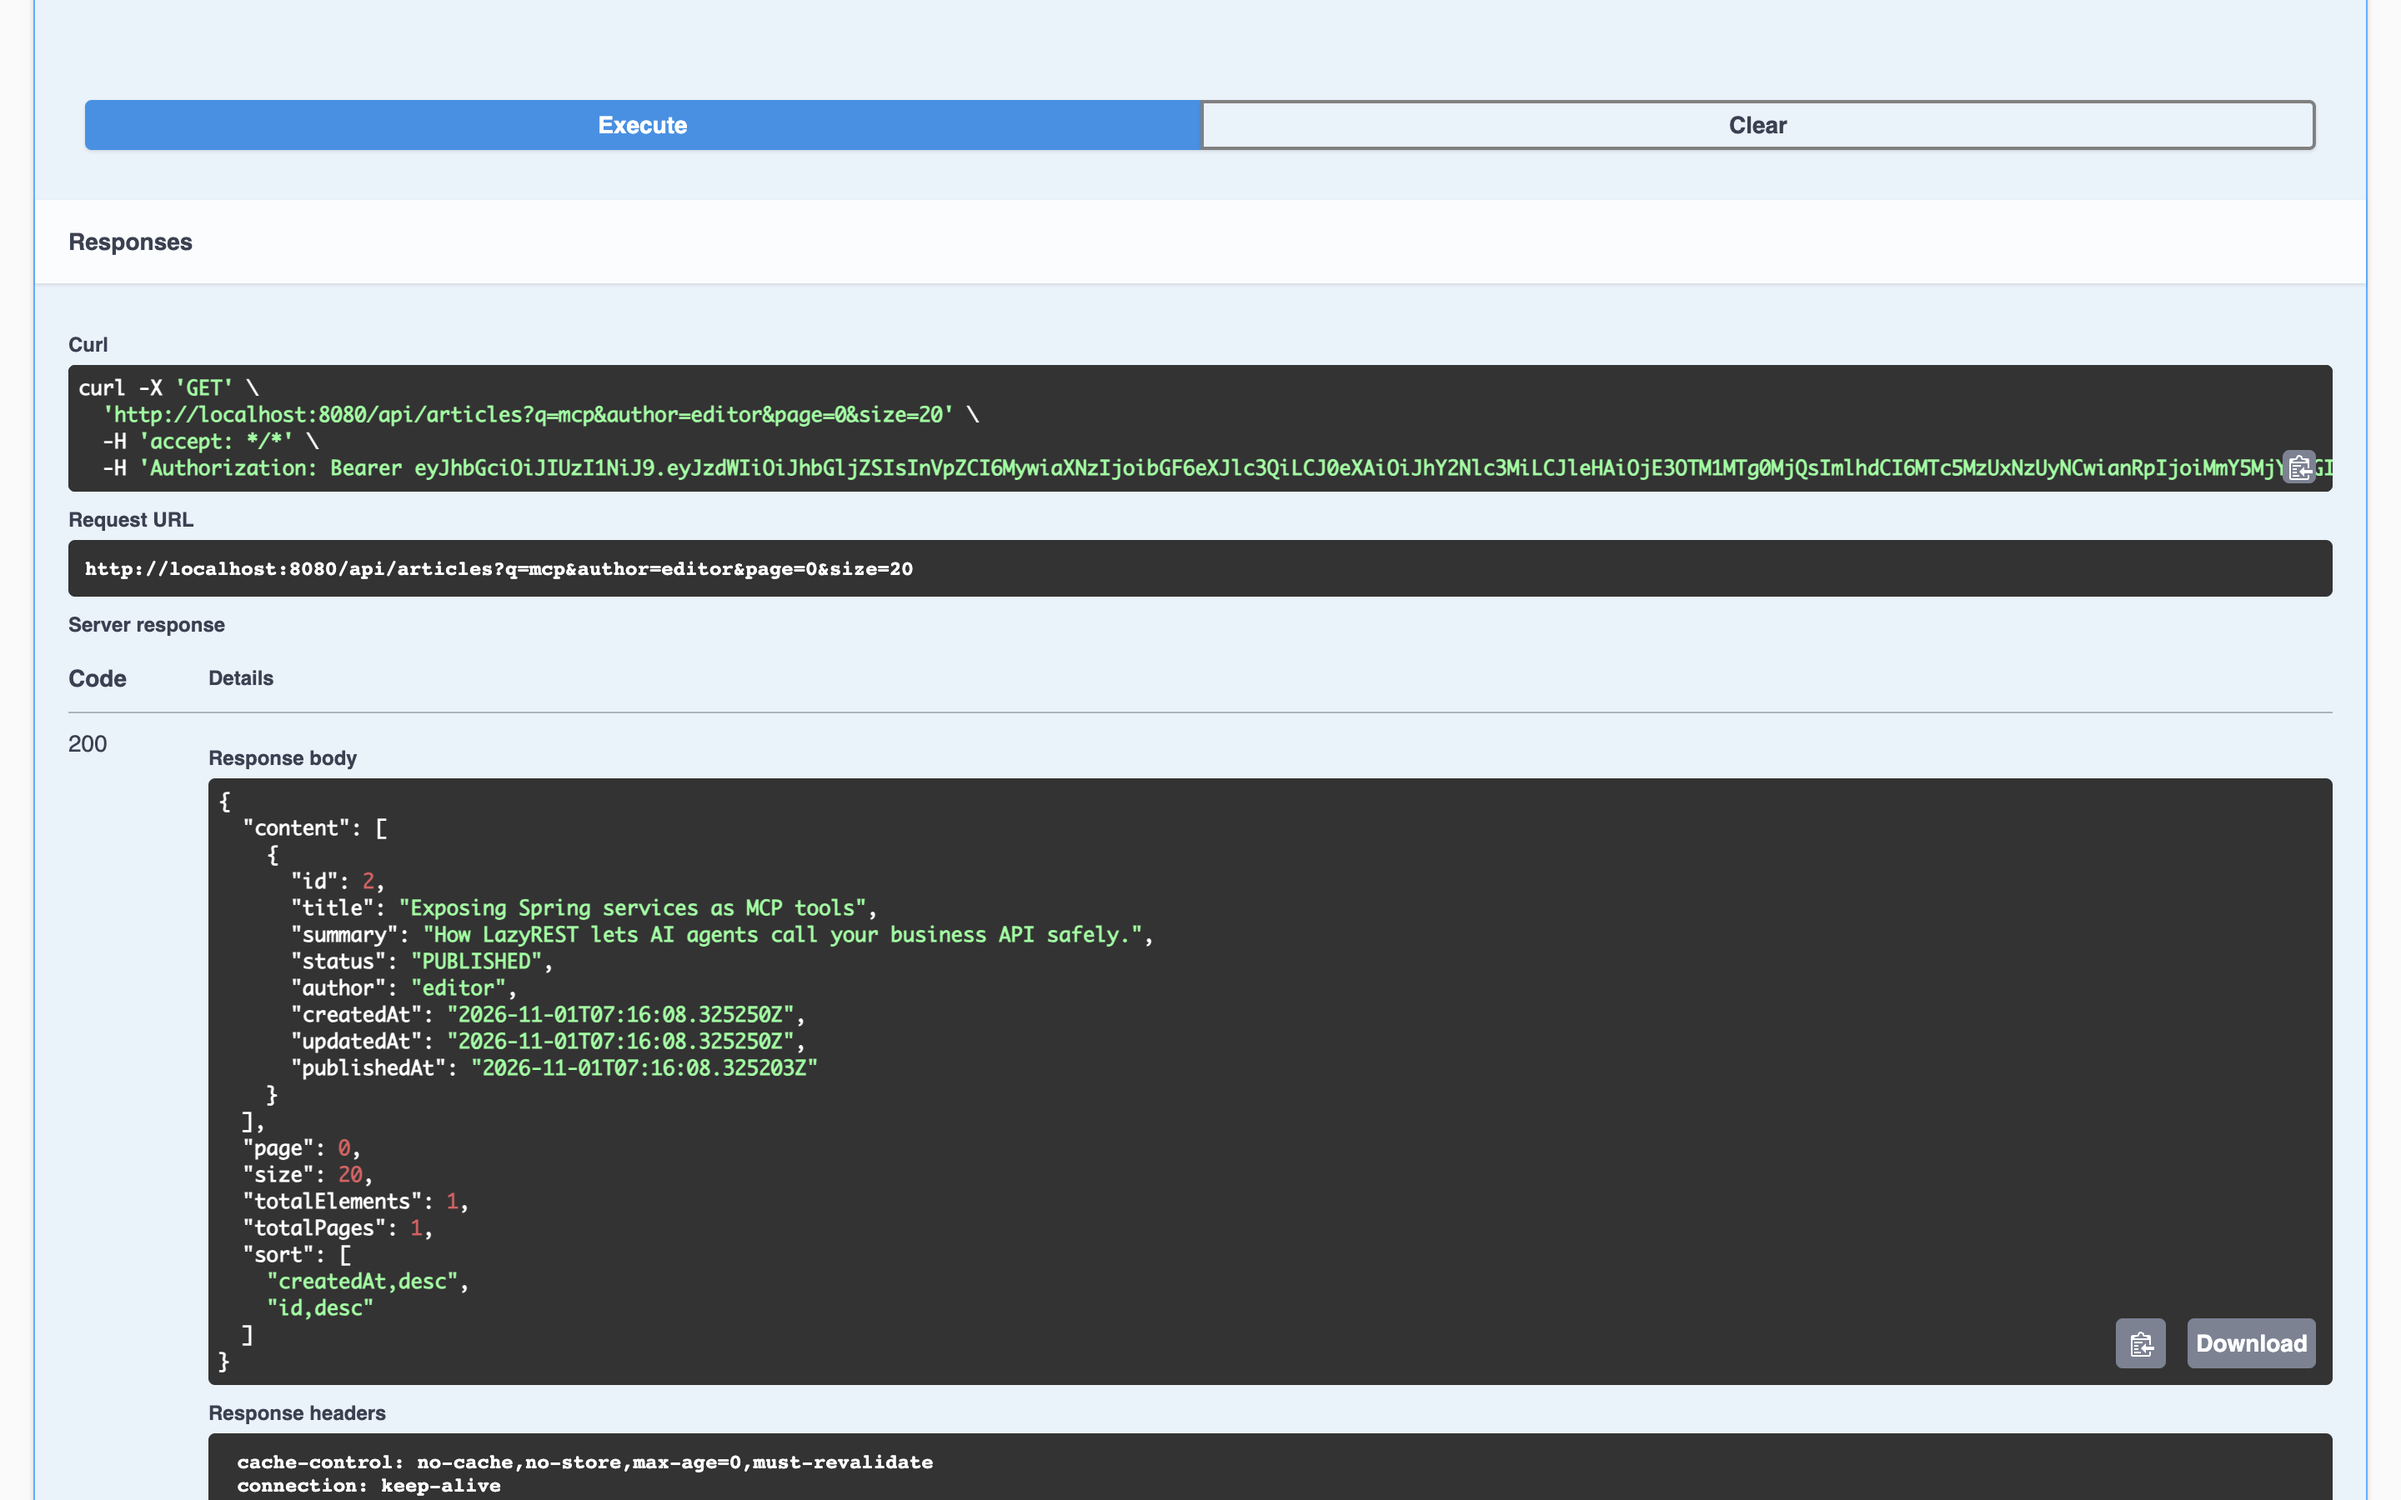
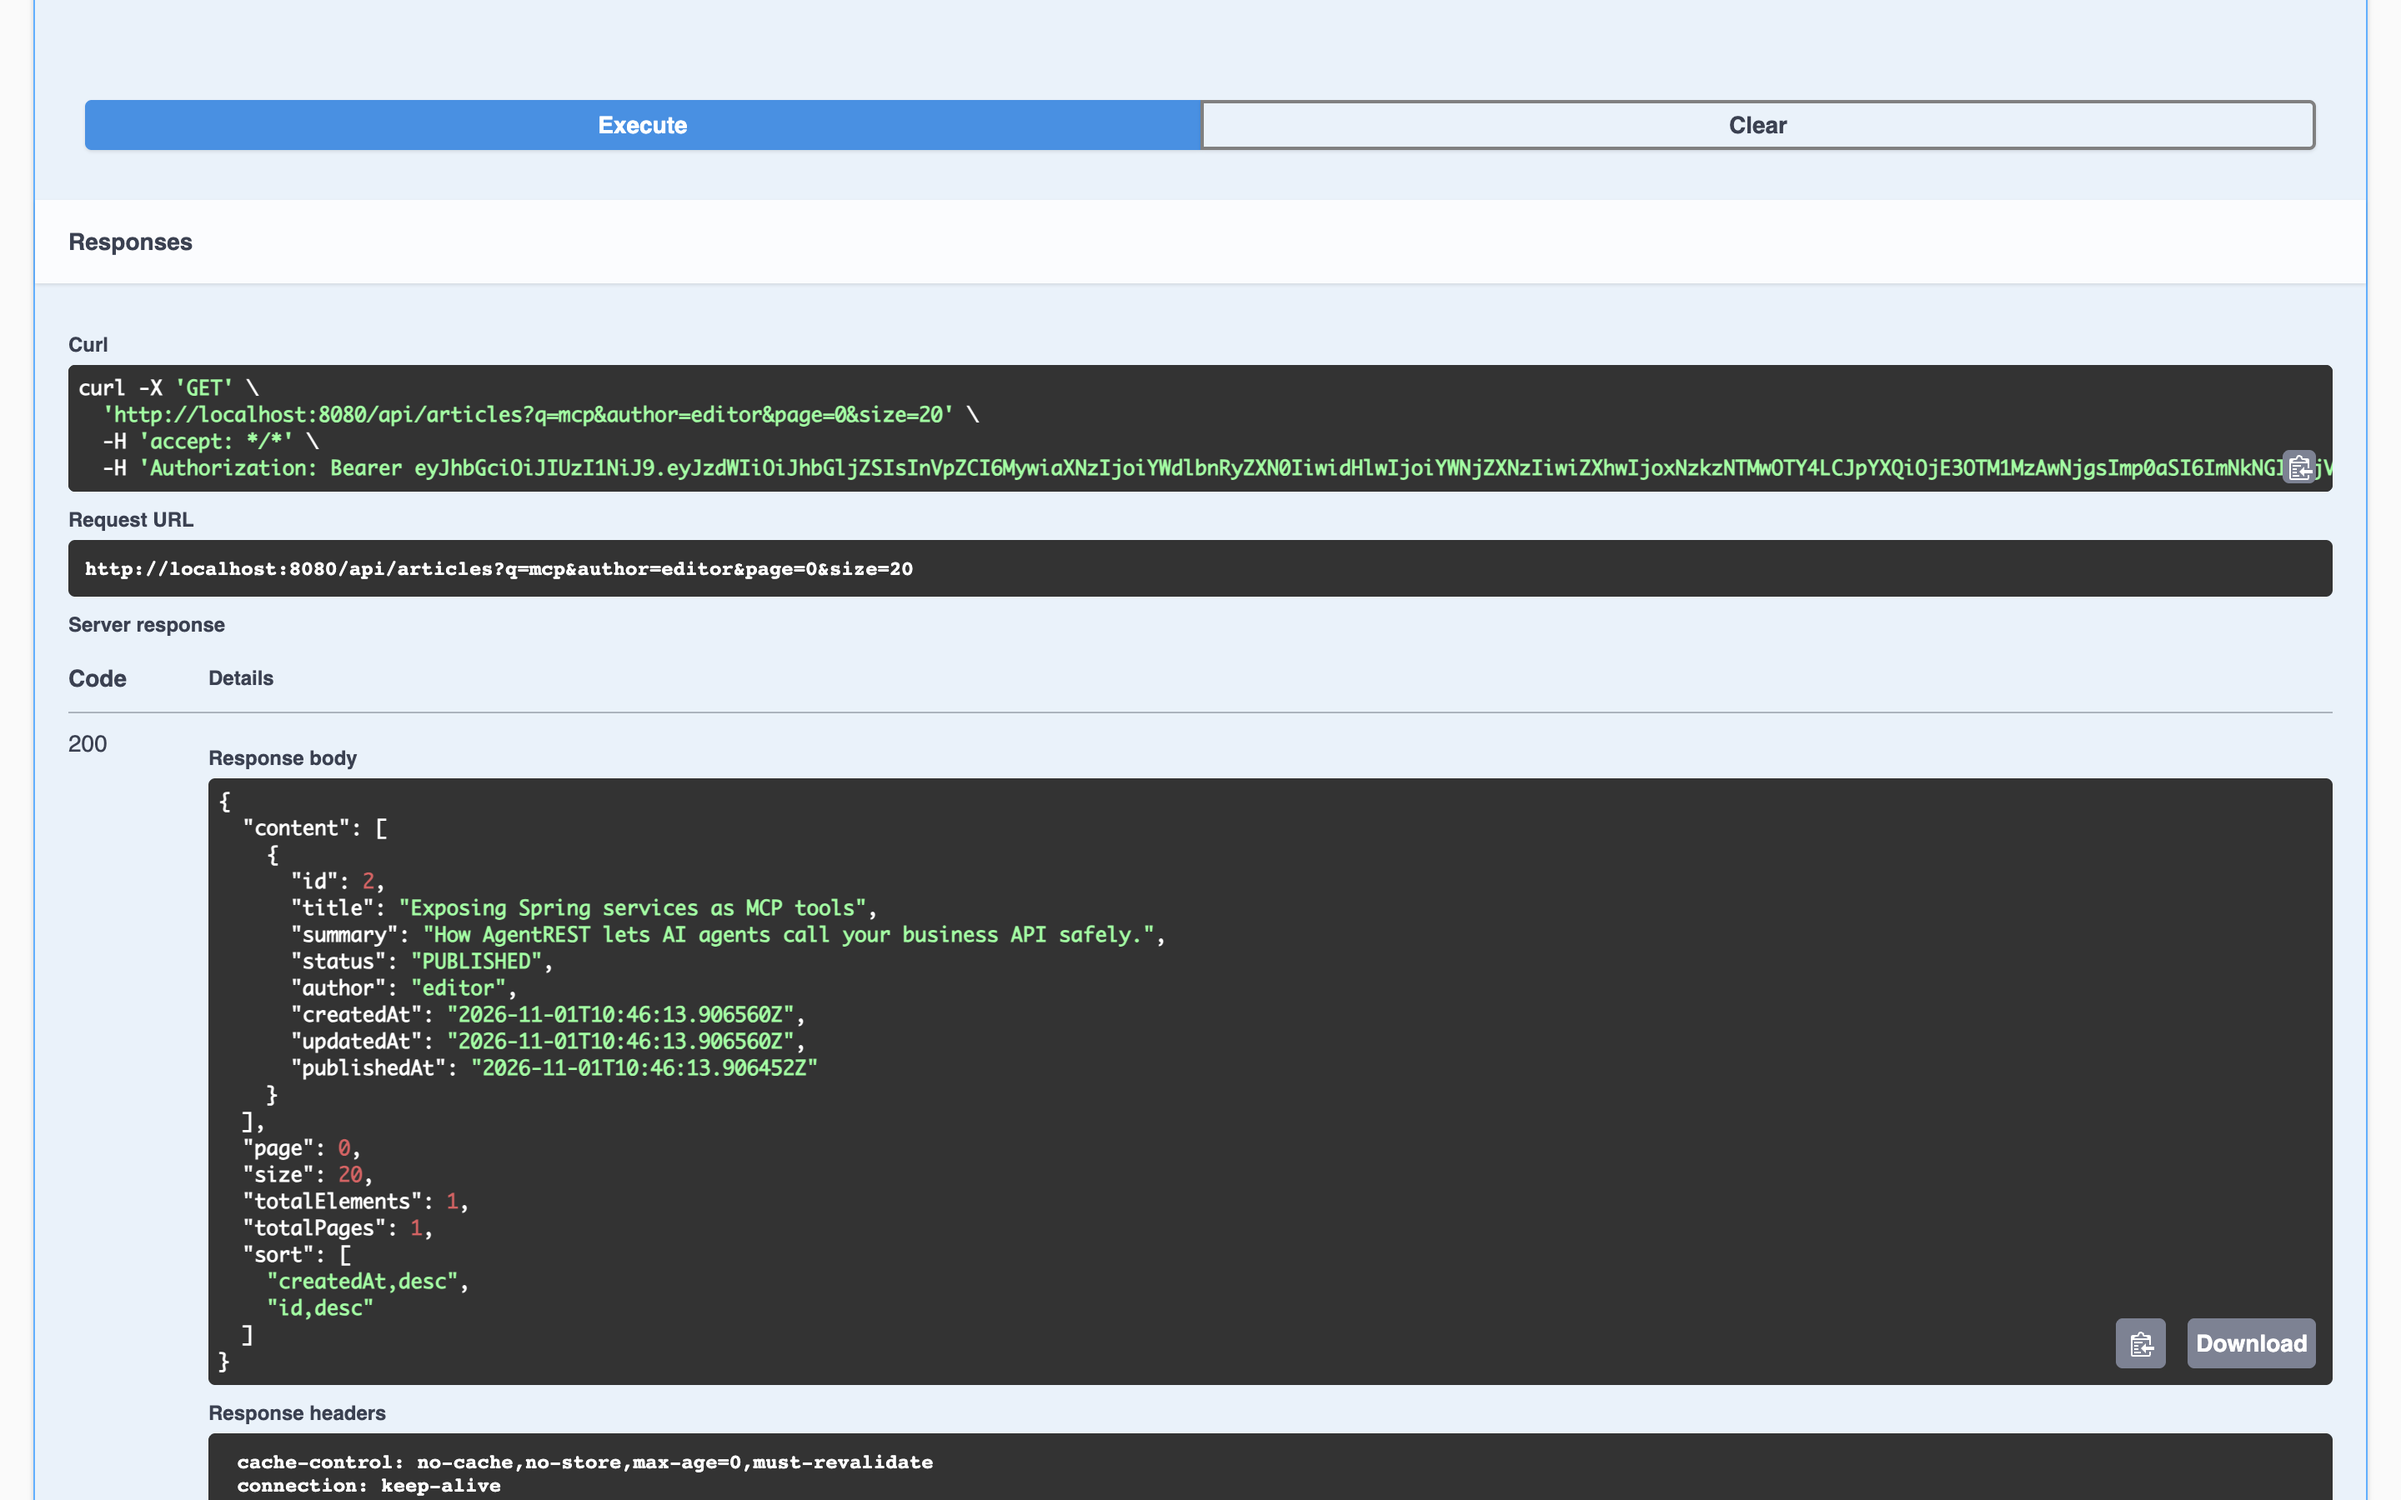
docs(screenshots): recapture curl, MCP Inspector, audit, Swagger UI and Claude Code against agentrest 2.1.0
Fresh real runs of target/agentrest-2.1.0.jar (MCP server "agentrest", mcp__agentrest__* tools,
ar_ API keys); the Claude Code run is bounded (--strict-mcp-config, --max-turns 6). Website WebP
copies and the startup time in the marketing terminal follow the new captures.

diff --git a/website/en/index.html b/website/en/index.html
@@ -149,7 +149,7 @@
           </div>
         </div>
         <figure class="figure">
-          <img src="../assets/claude-code-mcp.webp" width="1252" height="664" loading="lazy" alt="A real Claude Code session calling the agentrest searchArticles and getArticle tools and summarizing the result" />
+          <img src="../assets/claude-code-mcp.webp" width="1252" height="651" loading="lazy" alt="A real Claude Code session calling the agentrest searchArticles and getArticle tools and summarizing the result" />
           <figcaption>A real <code>claude -p</code> run (its stream-json transcript laid out as a terminal, content unchanged). Claude Desktop works through <code>mcp-remote</code>; the MCP Inspector CLI is verified too.</figcaption>
         </figure>
       </div>

diff --git a/website/index.html b/website/index.html
@@ -149,7 +149,7 @@
           </div>
         </div>
         <figure class="figure">
-          <img src="assets/claude-code-mcp.webp" width="1252" height="664" loading="lazy" alt="真实的 Claude Code 会话：调用 agentrest 的 searchArticles 和 getArticle 工具并给出总结" />
+          <img src="assets/claude-code-mcp.webp" width="1252" height="651" loading="lazy" alt="真实的 Claude Code 会话：调用 agentrest 的 searchArticles 和 getArticle 工具并给出总结" />
           <figcaption>真实的 <code>claude -p</code> 运行记录（stream-json 原文排版成终端样式，未改动内容）。Claude Desktop 可通过 <code>mcp-remote</code> 桥接，MCP Inspector CLI 也已验证。</figcaption>
         </figure>
       </div>

diff --git a/docs/assets/brand/src/term-mcp.inc.html b/docs/assets/brand/src/term-mcp.inc.html
@@ -1,7 +1,7 @@
 <div class="card term">
   <div class="card-head"><span class="dots"><i></i><i></i><i></i></span>~/AgentREST</div>
   <pre><span class="p">$</span> ./mvnw spring-boot:run
-<span class="c">  Started AgentRestApplication in 5.187 seconds</span>
+<span class="c">  Started AgentRestApplication in 5.071 seconds</span>
 <span class="p">$</span> claude mcp add --transport http agentrest \
     http://localhost:8080/mcp --header "X-API-Key: ar_…"
 <span class="p">$</span> claude -p "Search AgentREST for articles about MCP…"
